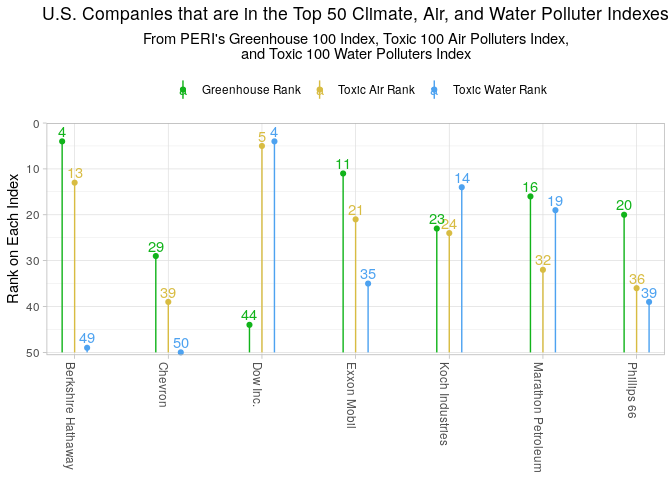
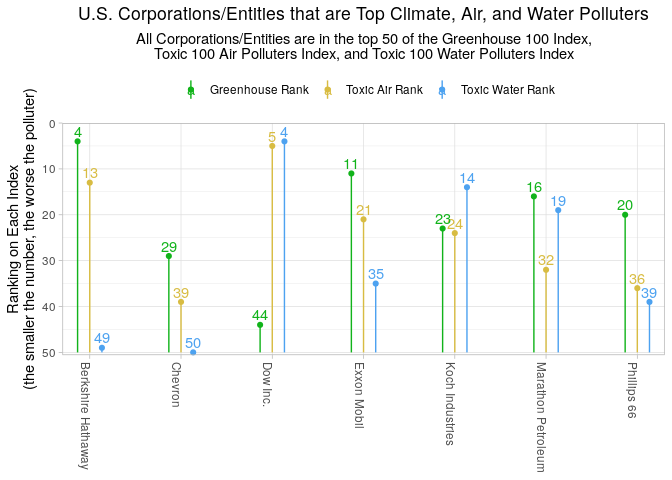
more and more edits

diff --git a/README.md b/README.md
@@ -3,7 +3,7 @@
 
 <!-- You'll still need to render `README.Rmd` regularly, to keep `README.md` up-to-date. `devtools::build_readme()` is handy for this.  -->
 
-# Top Climate, Air, and Water Polluters (2018)
+# Top Climate, Air, and Water Polluters (data from 2018)
 
 <!-- badges: start -->
 
@@ -21,10 +21,10 @@ The development version of XXX is available from
 
 ``` r
 install.packages("devtools")
-#> Installing package into '/tmp/RtmpSmIAXV/temp_libpath5314180781f0'
+#> Installing package into '/tmp/RtmpNRmzp3/temp_libpath32b72a6a0e00'
 #> (as 'lib' is unspecified)
 install.packages("topPolluters")
-#> Installing package into '/tmp/RtmpSmIAXV/temp_libpath5314180781f0'
+#> Installing package into '/tmp/RtmpNRmzp3/temp_libpath32b72a6a0e00'
 #> (as 'lib' is unspecified)
 #> Warning: package 'topPolluters' is not available for this version of R
 #> 
@@ -64,11 +64,9 @@ head(topPolluters)
 #> 6               0.59              NA                  NA                5
 ```
 
-## Example 1 - U.S. Companies that are in the Top 50 Climate, Air, and Water Polluter Indexs
+## Example 1 - Are there any corporations/entities that rank highly (as top polluters) in all three indexes?
 
 ``` r
-
-
 filter(topPolluters, toxic.air.rank <= 50, greenhouse.rank <= 50, toxic.water.rank <= 50) %>%
   pivot_longer(
     cols = c(toxic.air.rank, greenhouse.rank, toxic.water.rank),
@@ -88,9 +86,9 @@ filter(topPolluters, toxic.air.rank <= 50, greenhouse.rank <= 50, toxic.water.ra
   geom_text(aes(label = round(ranking, .4)), 
             position = position_dodge(0.4), vjust = -.4)+
   labs( 
-    title = "U.S. Companies that are in the Top 50 Climate, Air, and Water Polluter Indexes",
-    subtitle = "From PERI's Greenhouse 100 Index, Toxic 100 Air Polluters Index,\nand Toxic 100 Water Polluters Index",
-    y = "Rank on Each Index"
+    title = "U.S. Corporations/Entities that are Top Climate, Air, and Water Polluters",
+    subtitle = "All Corporations/Entities are in the top 50 of the Greenhouse 100 Index,\nToxic 100 Air Polluters Index, and Toxic 100 Water Polluters Index",
+    y = "Ranking on Each Index\n(the smaller the number, the worse the polluter)"
   ) +
   theme_light()+
   theme(legend.position = "top",
@@ -101,9 +99,9 @@ filter(topPolluters, toxic.air.rank <= 50, greenhouse.rank <= 50, toxic.water.ra
         axis.text.x = element_text(angle = -90, hjust = 0)) 
 ```
 
-<img src="man/figures/README-unnamed-chunk-3-1.png" width="100%" /> \#\#
-Example 2 - The Top 30 U.S. Industrial Pollutors of Air Toxics of 2018
-and Resulting Exposure to Low-Income People and Racial/Ethnic Minorities
+<img src="man/figures/README-unnamed-chunk-3-1.png" width="100%" />
+
+## Example 2 - Do top toxic air polluters negatively impact marginalized communities at a disproportional rate?
 
 ``` r
 topPolluters %>%
@@ -125,9 +123,9 @@ topPolluters %>%
     expand = expansion(add = c(0, 2))
   ) +
   labs(
-    title = "The Top 30 U.S. Industrial Pollutors of Air Toxics of 2018 and the\nResulting Exposure to Low-Income People and Racial/Ethnic Minorities",
-    caption = "The ranking of the top air pollutors is based on total potential chronic human health risk from their facilities.\nThe percentages are in regards to the makeup of the at-risk populations (which are typically those nearest to the toxic facilities),\nbut spefically how much of the at risk population is below the poverty line or is a racial/ethnic minority.",
-    x = "Top Pollutors of Air Toxics (in Descending Order of Rank)",
+    title = "The Top 30 U.S. Industrial Pollutors of Air Toxics of 2018 and the\nResulting Exposure to Low-Income People and\nRacial/Ethnic Minorities",
+    caption = "The ranking of the top air pollutors is based on total potential chronic human health risk from their facilities.\nThe percentages are in regards to the makeup of the at-risk populations (which are typically those nearest to\nthe toxic facilities), but spefically how much of the at risk population is below the poverty line or is a racial/ethnic minority.",
+    x = "Top Pollutors of Air Toxics\n(in Descending Order of Rank)",
     y = "Percent Group Makes Up of Total At-Risk Population"
   ) +
   theme(
